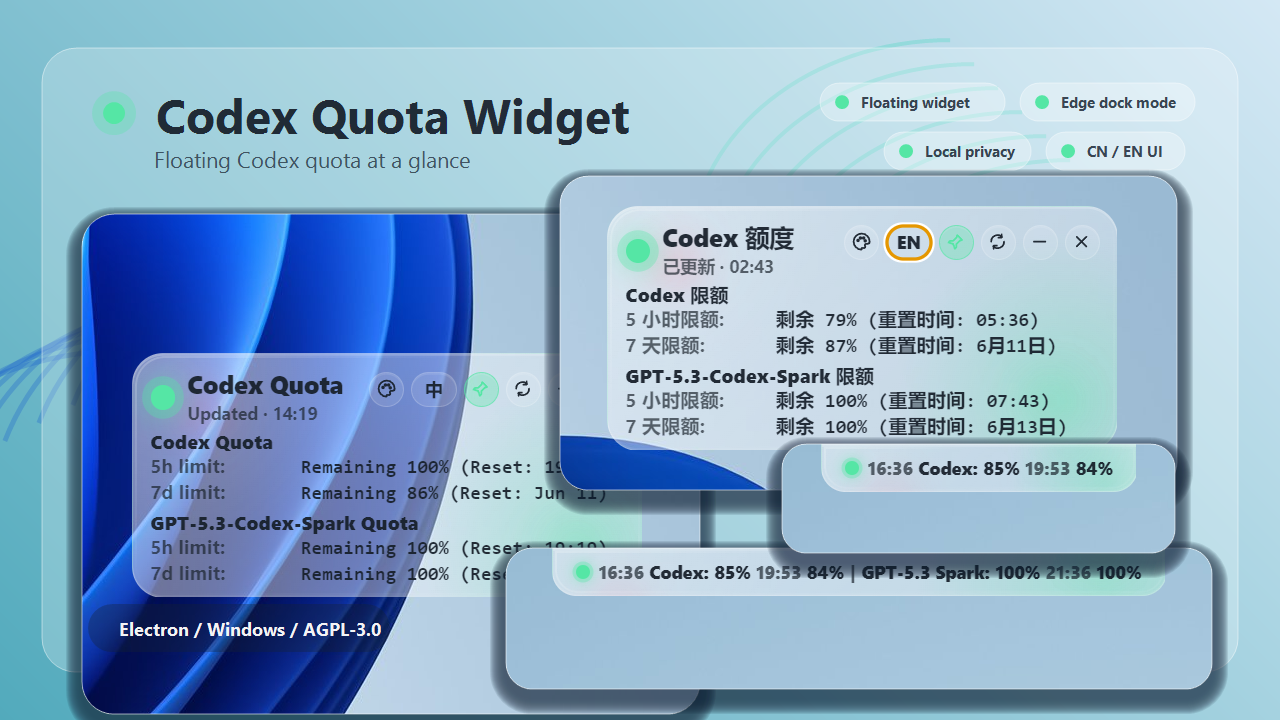
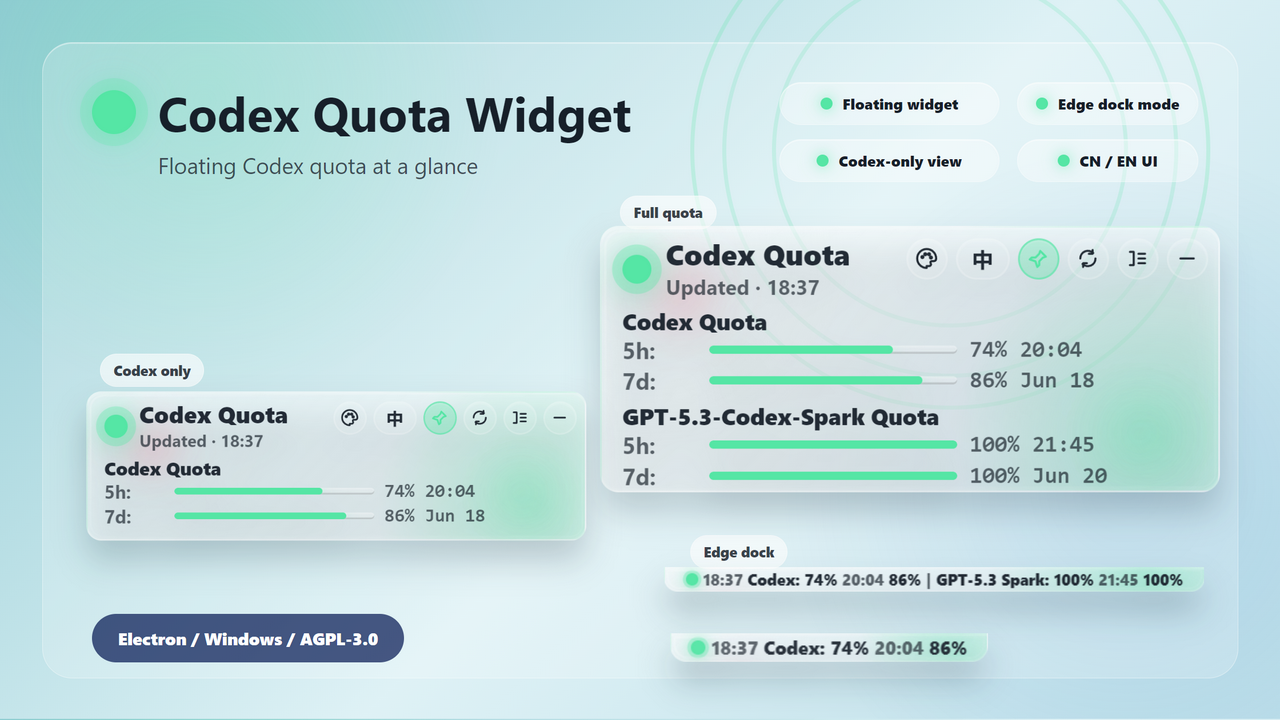
修改细节字体

diff --git a/src/renderer/styles.css b/src/renderer/styles.css
@@ -625,19 +625,21 @@ body[data-dock-edge="top"] .widget::before {
 .quota-row {
   /* 两列布局：左侧限额名称，右侧百分比/重置时间。 */
   display: grid;
-  grid-template-columns: 36px 120px 75px;
+  grid-template-columns: 36px 120px 75px; /* 已经手动优化，不要改动 */
   align-items: center;
+  justify-content: start; /* 将百分比和重置时间向左对齐 */
   gap: 6px;
   padding-right: 6px;
-  min-height: 14px;
+  min-height: 14px; /* 确保行高足够显示所有内容 */
   font-size: 11px;
-  line-height: 1.15;
+  font-weight: 800;
+  font-variant-numeric: tabular-nums; /* 确保数字显示为等宽字体 */
+  line-height: 1.15; /* 行高略高于默认值，使内容更紧凑 */
 }
 
 .quota-label {
   /* 左侧标签，例如 5 小时限额。 */
   color: var(--muted);
-  font-weight: 700;
   white-space: nowrap;
 }
 
@@ -669,15 +671,11 @@ body[data-dock-edge="top"] .widget::before {
 .quota-progress {
   position: relative;
   min-width: 0;
-  height: 4px;
+  height: 6px;
   overflow: hidden;
   border-radius: 999px;
-  background:
-    linear-gradient(180deg, rgba(255, 255, 255, 0.16), rgba(255, 255, 255, 0.04)),
-    rgba(255, 255, 255, 0.12);
-  box-shadow:
-    inset 0 1px 0 rgba(255, 255, 255, 0.14),
-    inset 0 -1px 0 rgba(0, 0, 0, 0.14);
+  background: rgba(255, 255, 255, 0.12);
+  box-shadow: none;
 }
 
 .quota-progress-fill {
@@ -686,20 +684,14 @@ body[data-dock-edge="top"] .widget::before {
   height: 100%;
   border-radius: inherit;
   background: var(--quota-accent);
-  box-shadow:
-    0 0 0 1px rgba(255, 255, 255, 0.06),
-    0 0 8px var(--quota-accent-soft);
+  box-shadow: none;
   transition: width 180ms ease;
 }
 
 .quota-value {
-  /* 右侧值。使用等宽字体便于百分比和时间对齐。 */
   min-width: 0;
   overflow: hidden;
   color: var(--muted);
-  font-family: Consolas, "SFMono-Regular", "Microsoft YaHei UI", monospace;
-  font-size: 11px;
-  font-weight: 800;
   text-align: left;
   text-overflow: ellipsis;
   white-space: nowrap;